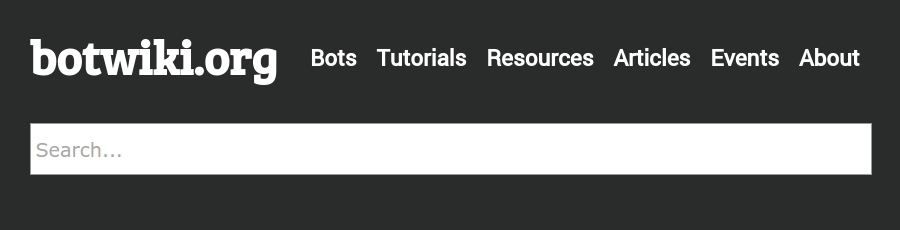
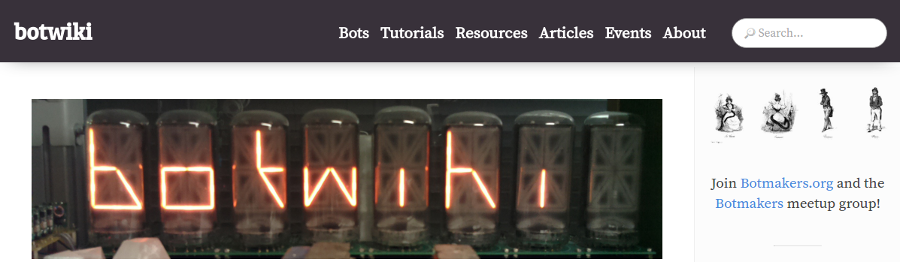
Updated the Botwiki screenshot, added the Detective game to projects.

diff --git a/content/projects/index.md b/content/projects/index.md
@@ -17,7 +17,7 @@ If you'd like to contribute to Botwiki.org, check out [this GitHub repo](https:/
 
 ### [¶](#monthly-bot-challenge){.pilcrow} Monthly Bot Challenge {#monthly-bot-challenge}
 
-![Sidekick](/content/monthly-bot-challenge/images/monthly-bot-challenge-promo-1v3.png)
+![Monthly Bot Challenge](/content/monthly-bot-challenge/images/monthly-bot-challenge-promo-1v3.png)
 
 An ongoing monthly bot hackathon. See the [Monthly Bot Challenge](/monthly-bot-challenge/) page for details!
 
@@ -44,3 +44,13 @@ We also have a [Code of Conduct](https://github.com/botwiki/botmakers.org/blob/m
 
 **Sidekick** is a multi-network bot that helps you manage your Slack-based hobby and non-profit online groups. Learn more about the project at [getyoursidekick.org](http://getyoursidekick.org/) and join the ongoing development at [Botmakers.org](https://botmakers.org/).
 
+
+### [¶](#detective){.pilcrow} Detective {#detective}
+
+![Detective](/content/projects/images/detective.png)
+
+Detective is an online game where players are assigned roles of a Detective or an Impostor. A third role, Robot, is handled by a chat bot (powered by [BOT libre!](https://www.botlibre.com/)).
+
+The Detective has to correctly identify the Impostor, whose goal is to convince the Detective they are speaking to the Robot.
+
+[Play the game](http://fourtonfish.com/detective/), read more about the game on [Stefan's blog](https://fourtonfish.com/tag/detective/), or [join the development](https://github.com/botwiki/detective/).
